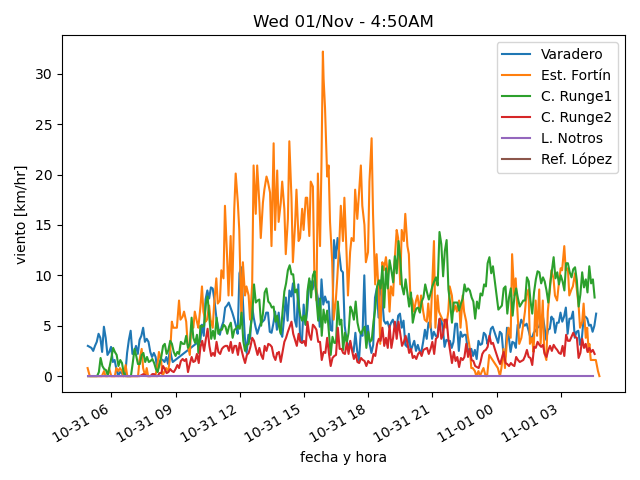
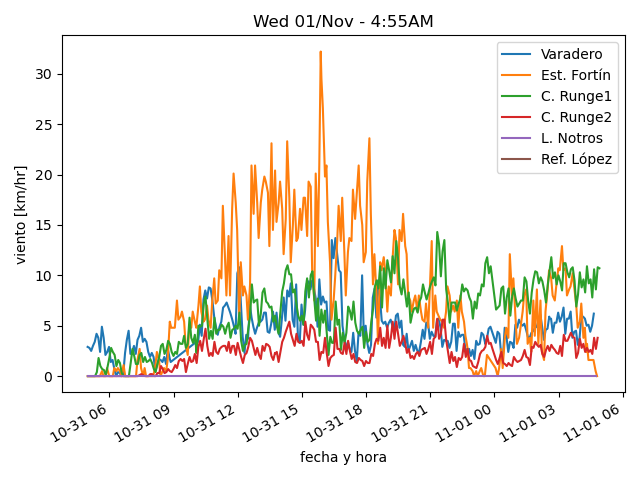
actualiza datos

diff --git a/estaciones/estacion3.html b/estaciones/estacion3.html
@@ -18,22 +18,22 @@
     </tr>
     <tr>
      <td class="stats_data">
-      4:34AM
+      4:54AM
      </td>
     </tr>
     <tr>
      <td class="stats_data">
-      1.9⁰C
+      2.0⁰C
      </td>
     </tr>
     <tr>
      <td class="stats_data">
-      1.6⁰C
+      1.7⁰C
      </td>
     </tr>
     <tr>
      <td class="stats_data">
-      98.0%
+      97.7%
      </td>
     </tr>
     <tr>
@@ -43,12 +43,12 @@
     </tr>
     <tr>
      <td class="stats_data">
-      5.4/7.8 km/hr SSE
+      7.2/10.7 km/hr SSE
      </td>
     </tr>
     <tr>
      <td class="stats_data">
-      1.3 / 0.0 mm
+      1.6 / 1.8 mm
      </td>
     </tr>
     <tr>

diff --git a/estaciones/estacion4.html b/estaciones/estacion4.html
@@ -18,7 +18,7 @@
     </tr>
     <tr>
      <td class="stats_data">
-      4:34AM
+      4:49AM
      </td>
     </tr>
     <tr>
@@ -33,17 +33,17 @@
     </tr>
     <tr>
      <td class="stats_data">
-      95.3%
+      95.4%
      </td>
     </tr>
     <tr>
      <td class="stats_data">
-      1020.73hPa
+      1020.83hPa
      </td>
     </tr>
     <tr>
      <td class="stats_data">
-      1.1/2.2 km/hr S
+      2.1/3.8 km/hr SE
      </td>
     </tr>
     <tr>

diff --git a/estaciones/estacion5.html b/estaciones/estacion5.html
@@ -18,7 +18,7 @@
     </tr>
     <tr>
      <td class="stats_data">
-      4:30AM
+      4:45AM
      </td>
     </tr>
     <tr>
